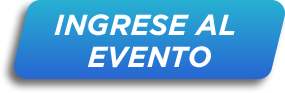
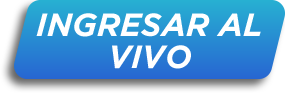
a

Changed region(s): [[0.1123, 0.129, 0.9263, 0.4086], [0.3088, 0.4731, 0.7579, 0.7527]]

diff --git a/resources/assets/js/components/forosas/Home.vue b/resources/assets/js/components/forosas/Home.vue
@@ -401,7 +401,7 @@
                 <p>Buenas Prácticas de Salud Sustentable</p>
             </div>
             <div class="solapa fondo solapa-evento" @click="ingresarAEvento()">
-                <p>Ingrese al evento</p>
+                <p>Ingrese al vivo</p>
             </div>                        
 	  		<div class="row content-logo">
 	  			<a><img src="img/forosas/logo.png"></a><br>

diff --git a/public/js/forosas.js b/public/js/forosas.js
@@ -46547,7 +46547,7 @@ var render = function() {
                 }
               }
             },
-            [_c("p", [_vm._v("Ingrese al evento")])]
+            [_c("p", [_vm._v("Ingrese al vivo")])]
           ),
           _vm._v(" "),
           _vm._m(13),
